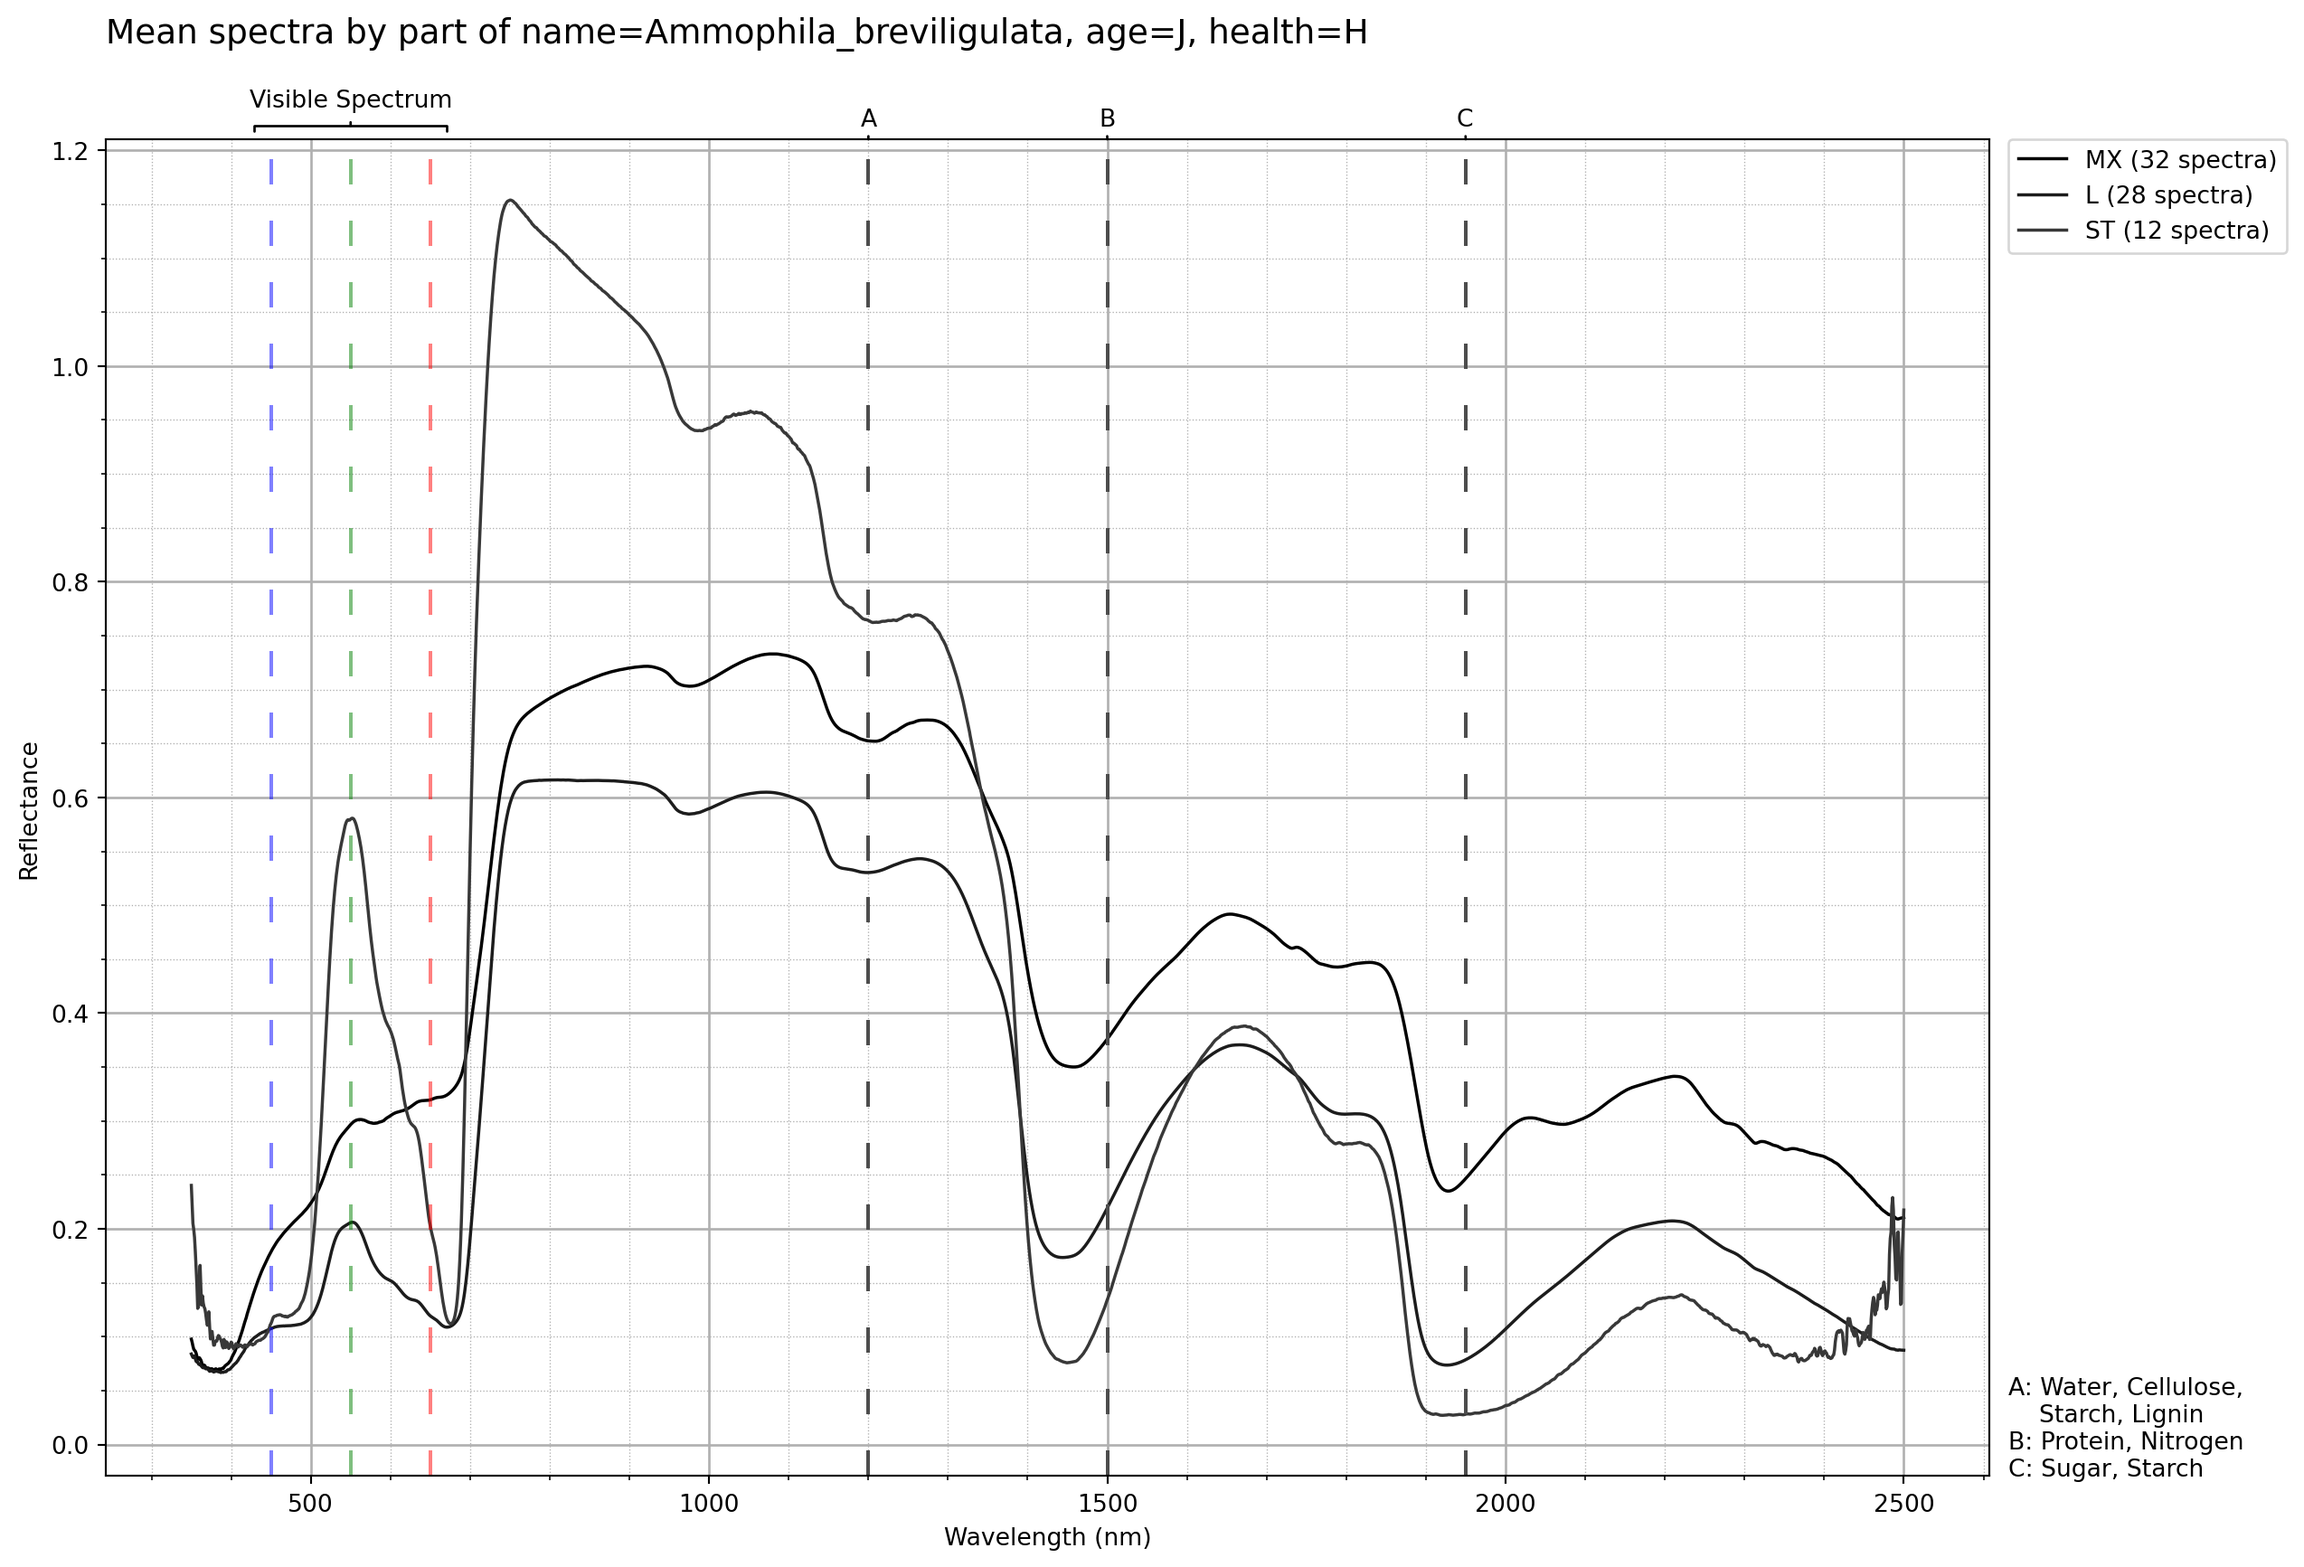
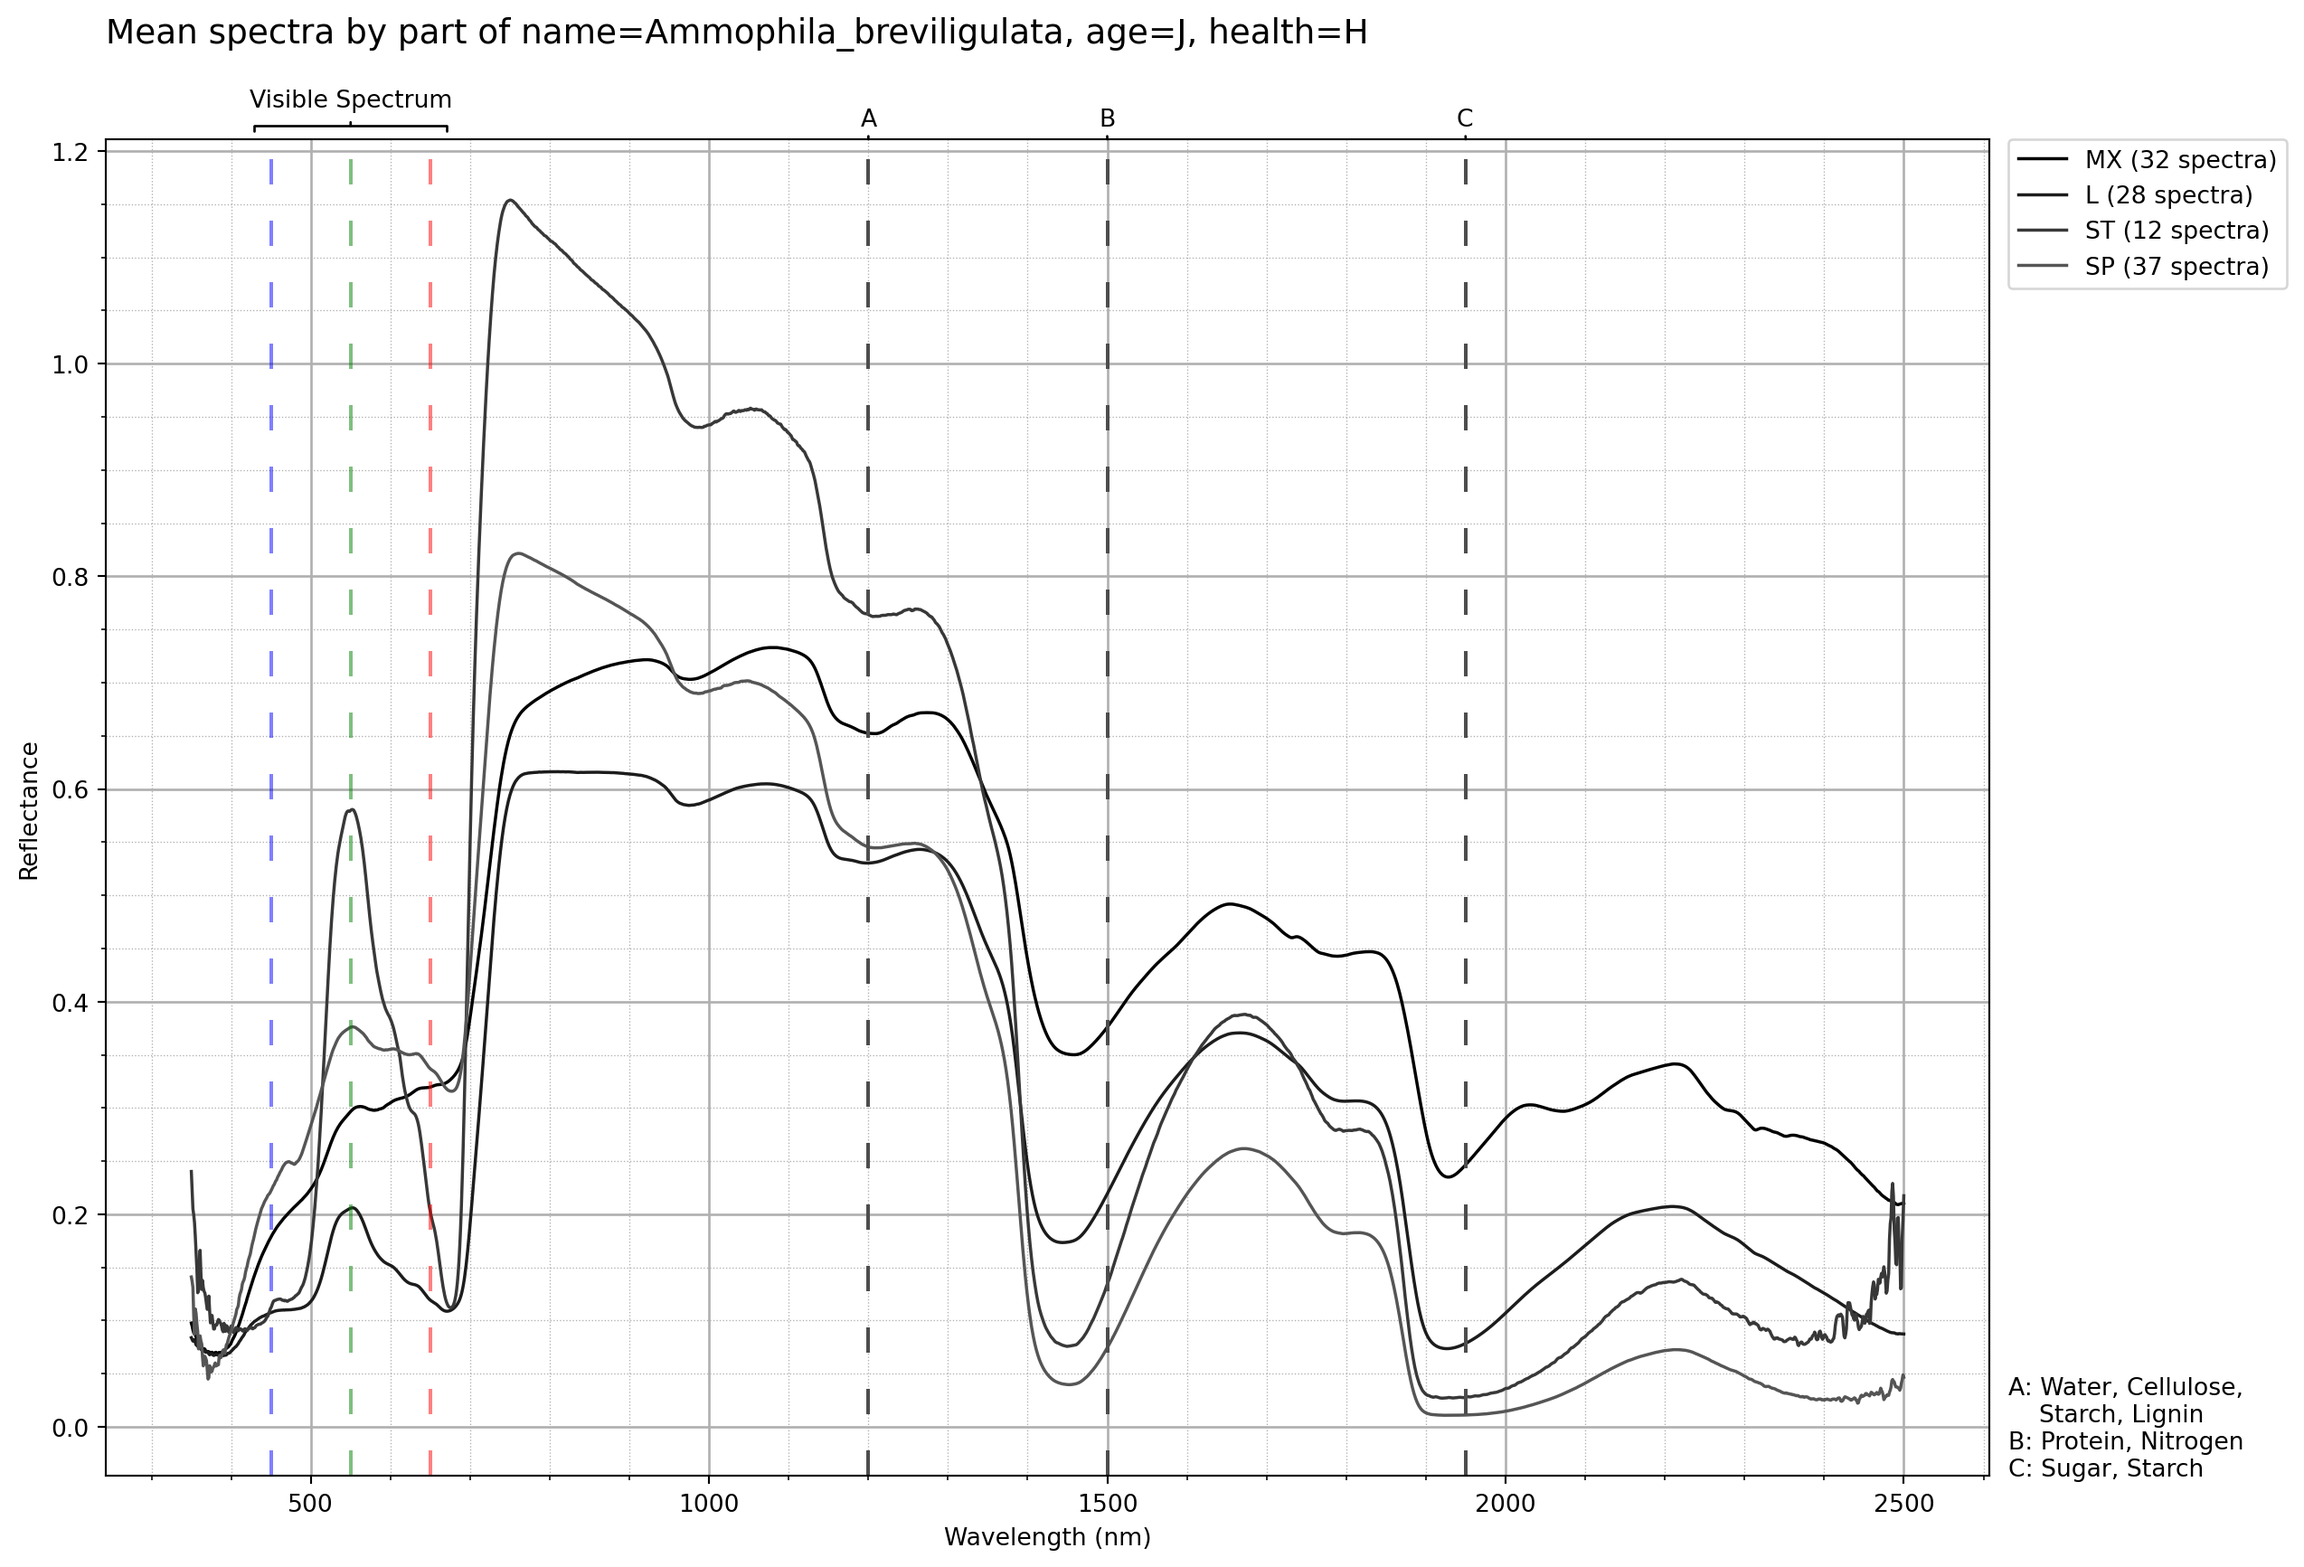
Built site for gh-pages

diff --git a/reports/Report1.html b/reports/Report1.html
@@ -152,7 +152,7 @@ ul.task-list li input[type="checkbox"] {
 
 <section id="spectral-library" class="level2 page-columns page-full">
 <h2 class="anchored" data-anchor-id="spectral-library">Spectral Library</h2>
-<p>Number of Spectra: 3943</p>
+<p>Number of Spectra: 4086</p>
 <div id="cell-table1" class="cell page-columns page-full" data-execution_count="9">
 <div id="table1" class="cell-output cell-output-display column-page-inset-right" data-execution_count="9">
 <div>
@@ -193,21 +193,21 @@ ul.task-list li input[type="checkbox"] {
 <tbody>
 <tr class="odd">
 <td data-quarto-table-cell-role="th">Ammophila_breviligulata</td>
-<td>287</td>
+<td>324</td>
 <td>35</td>
 <td>210</td>
 <td>12</td>
-<td>0</td>
+<td>37</td>
 <td>0</td>
 <td>0</td>
 <td>0</td>
 <td>0</td>
 <td>0</td>
 <td>5</td>
-<td>218</td>
+<td>255</td>
 <td>61</td>
 <td>28</td>
-<td>104</td>
+<td>141</td>
 <td>0</td>
 <td>4</td>
 <td>0</td>
@@ -309,21 +309,21 @@ ul.task-list li input[type="checkbox"] {
 </tr>
 <tr class="odd">
 <td data-quarto-table-cell-role="th">Ilex_vomitoria</td>
-<td>261</td>
+<td>297</td>
 <td>85</td>
-<td>69</td>
-<td>23</td>
+<td>80</td>
+<td>28</td>
 <td>26</td>
-<td>58</td>
+<td>78</td>
 <td>0</td>
 <td>0</td>
 <td>0</td>
 <td>6</td>
 <td>0</td>
-<td>203</td>
+<td>239</td>
 <td>7</td>
 <td>7</td>
-<td>212</td>
+<td>248</td>
 <td>0</td>
 <td>0</td>
 <td>0</td>
@@ -338,10 +338,10 @@ ul.task-list li input[type="checkbox"] {
 </tr>
 <tr class="even">
 <td data-quarto-table-cell-role="th">Iva_frutescens</td>
-<td>322</td>
+<td>341</td>
 <td>14</td>
-<td>286</td>
-<td>0</td>
+<td>297</td>
+<td>8</td>
 <td>9</td>
 <td>10</td>
 <td>0</td>
@@ -349,10 +349,10 @@ ul.task-list li input[type="checkbox"] {
 <td>0</td>
 <td>0</td>
 <td>5</td>
-<td>32</td>
+<td>51</td>
 <td>193</td>
 <td>46</td>
-<td>130</td>
+<td>149</td>
 <td>18</td>
 <td>0</td>
 <td>0</td>
@@ -360,7 +360,7 @@ ul.task-list li input[type="checkbox"] {
 <td>61</td>
 <td>58</td>
 <td>0</td>
-<td>95</td>
+<td>106</td>
 <td>15</td>
 <td>0</td>
 <td>0</td>
@@ -454,21 +454,21 @@ ul.task-list li input[type="checkbox"] {
 </tr>
 <tr class="even">
 <td data-quarto-table-cell-role="th">Robinia_hispida</td>
-<td>231</td>
+<td>267</td>
 <td>44</td>
-<td>86</td>
-<td>58</td>
+<td>100</td>
+<td>67</td>
 <td>0</td>
-<td>43</td>
+<td>56</td>
 <td>0</td>
 <td>0</td>
 <td>0</td>
 <td>0</td>
 <td>113</td>
-<td>100</td>
+<td>136</td>
 <td>18</td>
 <td>13</td>
-<td>218</td>
+<td>254</td>
 <td>0</td>
 <td>0</td>
 <td>0</td>
@@ -483,21 +483,21 @@ ul.task-list li input[type="checkbox"] {
 </tr>
 <tr class="odd">
 <td data-quarto-table-cell-role="th">Rosa_rugosa</td>
-<td>170</td>
+<td>185</td>
 <td>36</td>
-<td>113</td>
-<td>9</td>
+<td>125</td>
+<td>12</td>
 <td>0</td>
 <td>12</td>
 <td>0</td>
 <td>0</td>
 <td>0</td>
 <td>36</td>
-<td>84</td>
+<td>99</td>
 <td>47</td>
 <td>3</td>
 <td>3</td>
-<td>118</td>
+<td>133</td>
 <td>8</td>
 <td>0</td>
 <td>0</td>
